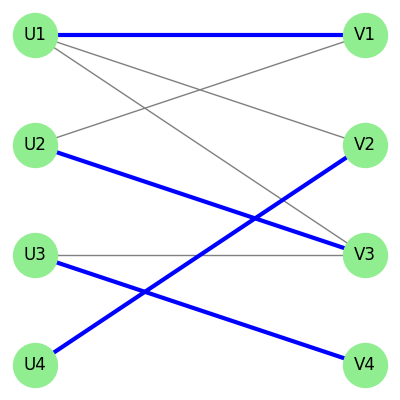
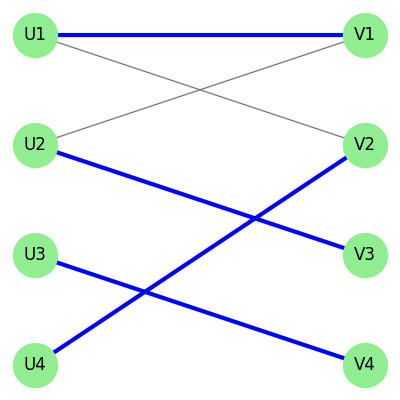
fix: Corrige aresta errada (U1, V3) -> (U1, V1) no grafo 5.5

diff --git a/GRAFOS/Estudos_Prova_3/draw_finals.py b/GRAFOS/Estudos_Prova_3/draw_finals.py
@@ -38,8 +38,7 @@ def draw_5_4_final():
 
 def draw_5_5_final():
     G = nx.Graph()
-    # Edges from pdf: U1-V1, U1-V2, U1-V3. U2-V1, U2-V3. U3-V3, U3-V4. U4-V2.
-    G.add_edges_from([('U1', 'V2'), ('U1', 'V3'), ('U2', 'V1'), ('U2', 'V3'), ('U3', 'V4'), ('U4', 'V2'), ('U1', 'V1'), ('U3', 'V3')])
+    G.add_edges_from([('U1', 'V1'), ('U1', 'V2'), ('U2', 'V1'), ('U2', 'V3'), ('U3', 'V4'), ('U4', 'V2')])
     pos = {'U1':(0,3), 'U2':(0,2), 'U3':(0,1), 'U4':(0,0), 'V1':(1,3), 'V2':(1,2), 'V3':(1,1), 'V4':(1,0)}
     plt.figure(figsize=(4, 4))
     nx.draw(G, pos, with_labels=True, node_size=1000, node_color='lightgreen', edge_color='gray')

diff --git a/GRAFOS/Estudos_Prova_3/draw_resolucoes_lista.py b/GRAFOS/Estudos_Prova_3/draw_resolucoes_lista.py
@@ -49,7 +49,7 @@ def draw_bipartite_5_4():
 
 def draw_bipartite_5_5():
     G = nx.Graph()
-    G.add_edges_from([('U1', 'V2'), ('U1', 'V3'), ('U2', 'V1'), ('U2', 'V3'), ('U3', 'V4'), ('U4', 'V2')])
+    G.add_edges_from([('U1', 'V1'), ('U1', 'V2'), ('U2', 'V1'), ('U2', 'V3'), ('U3', 'V4'), ('U4', 'V2')])
     pos = {'U1':(0,3), 'U2':(0,2), 'U3':(0,1), 'U4':(0,0), 'V1':(1,3), 'V2':(1,2), 'V3':(1,1), 'V4':(1,0)}
     plt.figure(figsize=(4, 4))
     nx.draw(G, pos, with_labels=True, node_size=1000, node_color='lightgreen')